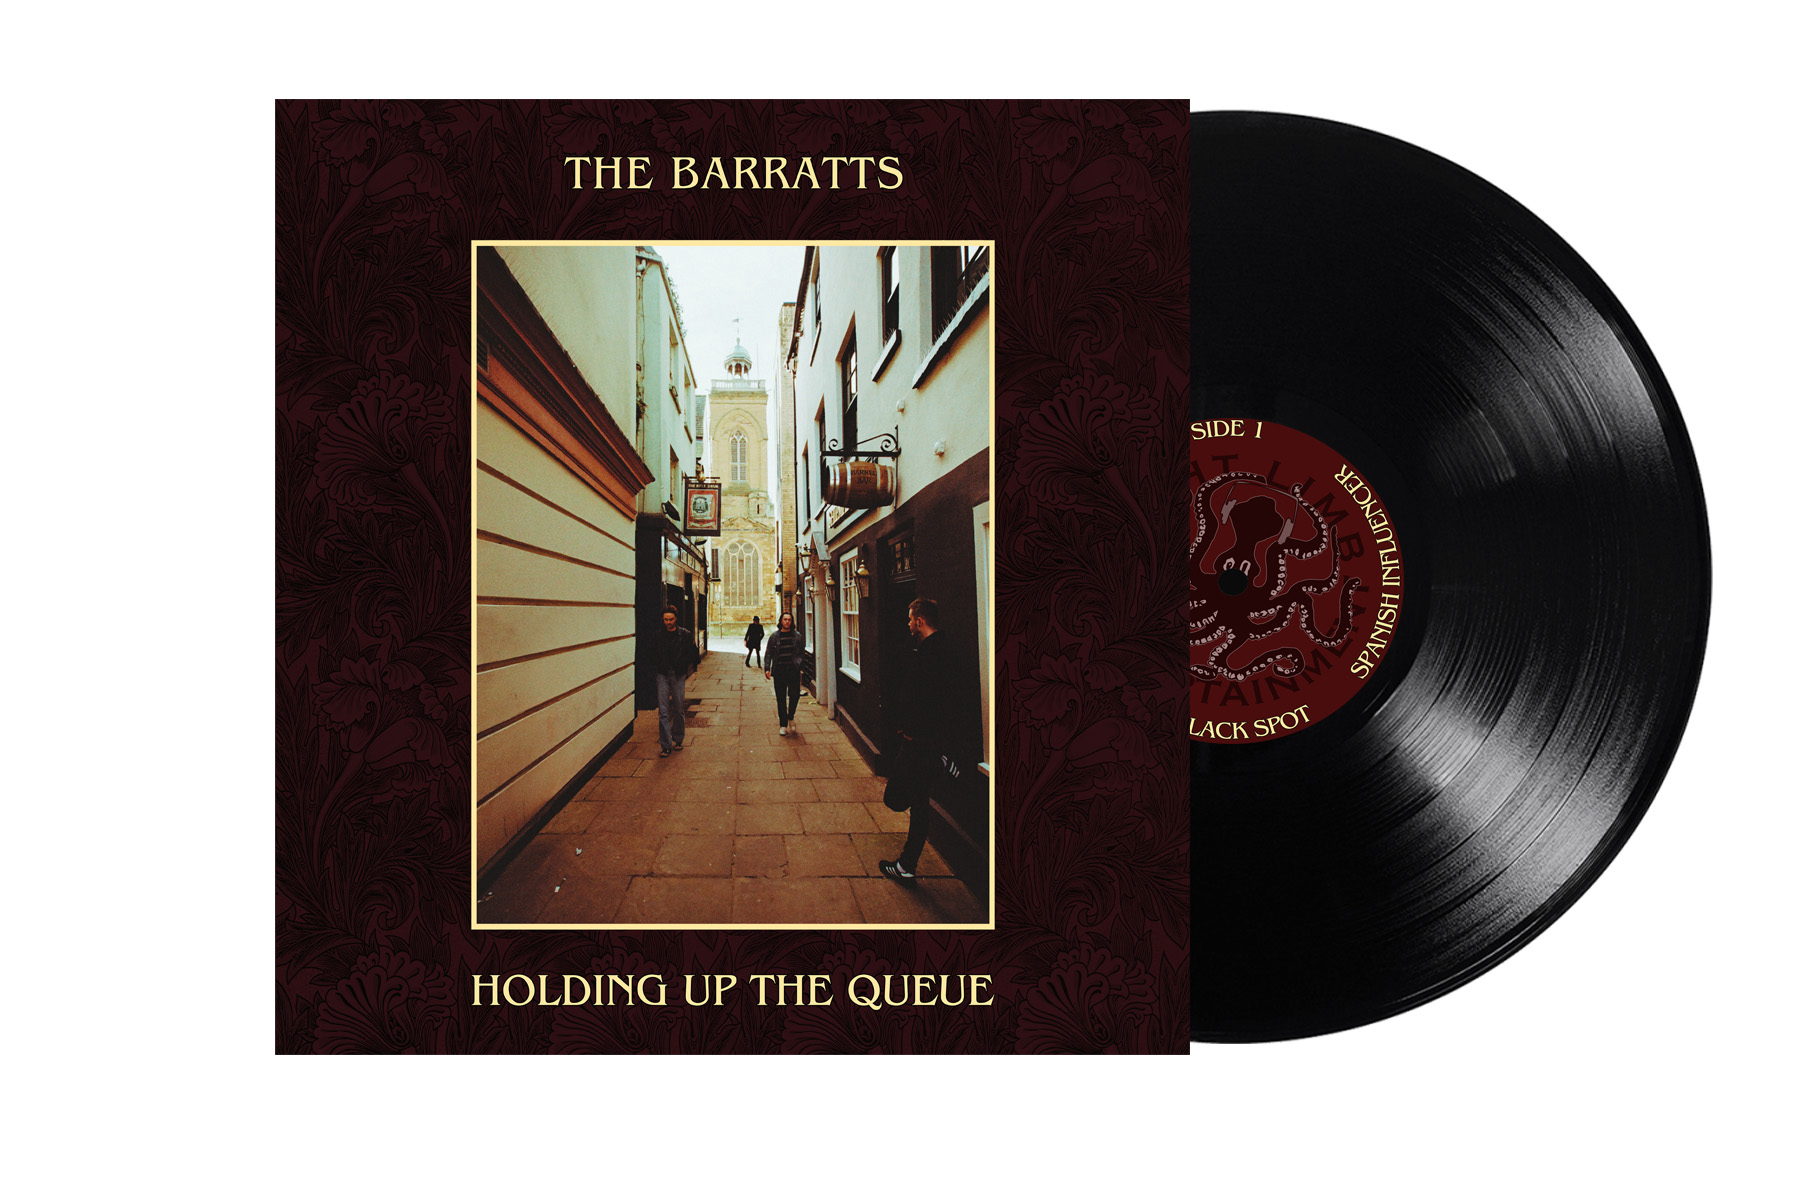
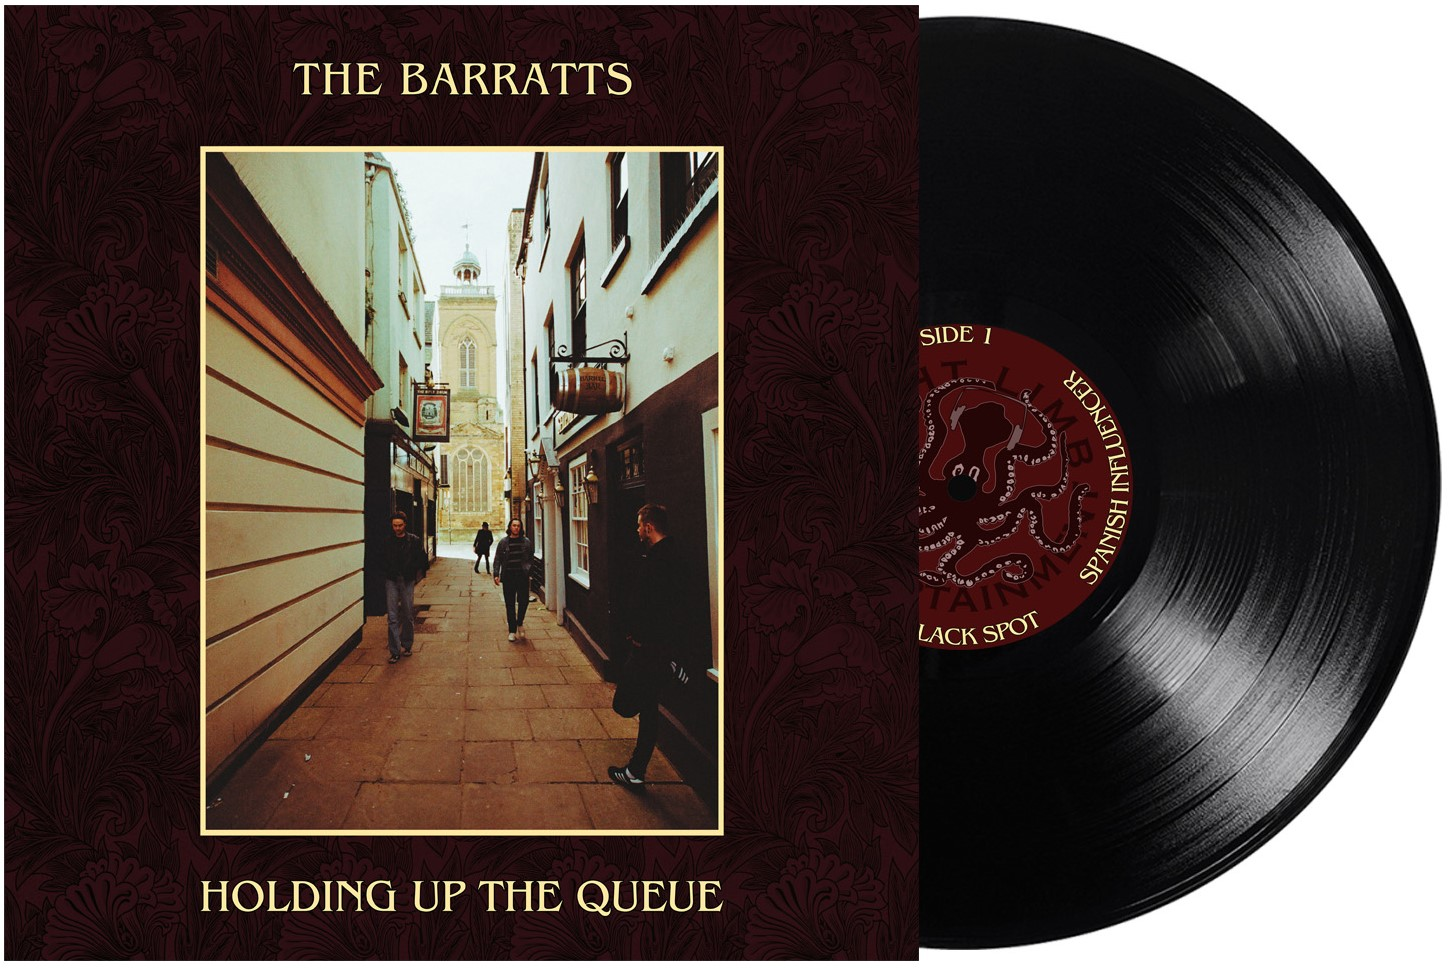
Added Barratts EP
Added Barratts Ep including link to paypal

diff --git a/index.html b/index.html
@@ -483,6 +483,37 @@
       <div class="vinyl-cards">
         <!-- Template -->
 
+        <!-- The Barratts Vinyl with Hover Effect -->
+        <div class="vinyl">
+          <div class="container">
+            <img src="Pictures/Vinyl/BarrattsLP.jpg" alt="The Barratts Holding Up the Queue EP" class="image" />
+            <!-- Overlay Links - Add text links here -->
+            <div class="middle">
+              <div class="album-info">
+                <span class="album-title">The Barratts: Holding up the Queue<br />2024 - ELE009 - 12"</span>
+                <ul class="track-list">
+                  <li>1: Garden Hopping</li>
+                  <li>2: Black Spot</li>
+                  <li>3: Spanish Influencer</li>
+                  <li>4: Rowan Tree Blues</li>
+                  <li>5: Wrapped in Gold</li>
+                  <li>6: Semi Detached</li>
+                </ul>
+                <a href="https://py.pl/1QDYXB" class="purchase-link">
+                  <div class="buy-box">
+                    <img src="Pictures/Icons/shopping_icon.png" alt="Buy" class="buy-image" />
+                  </div>
+                </a>
+              </div>
+            </div>
+          </div>
+          <!-- End of Overlay Links -->
+          <div class="vinyl-caption">
+            The Barratts <br />Holding Up the Queue
+          </div>
+        </div>
+        <!-- End of The Barratts Vinyl with Hover Effect -->
+
         <!-- Low Girl Vinyl with Hover Effect -->
         <div class="vinyl">
           <div class="container">
